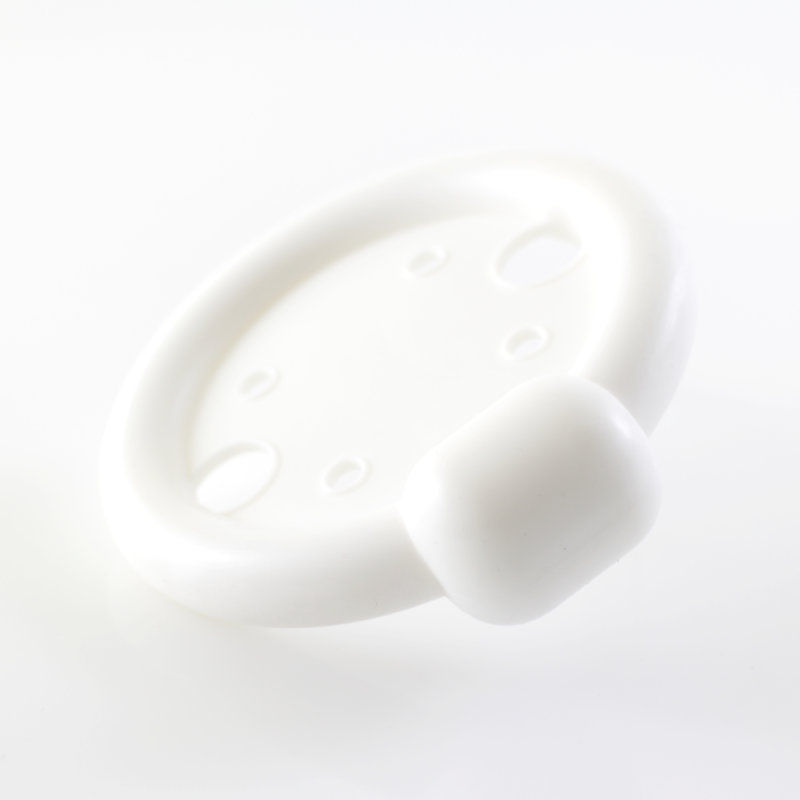
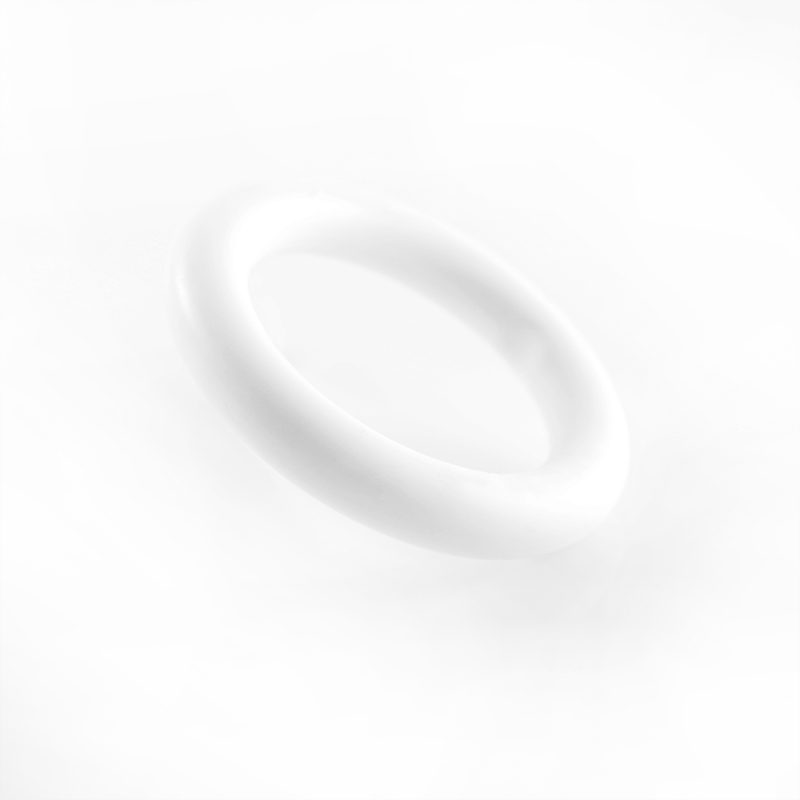
fix: corregir imagen Ring 6 y nombre Gellhorn Short 5

diff --git a/index.html b/index.html
@@ -126,8 +126,8 @@ body{font-family:'Inter',-apple-system,BlinkMacSystemFont,'Segoe UI',sans-serif;
     <div class="gift" data-n="Balanza Monitor Grasa"><div class="pic"><img src="https://conexioncentral-alt.github.io/dolphin-medical-reconocimiento/images/Balanza-Monitor-Grasa-Latidos.jpg" alt="Balanza con Monitor de Grasa" loading="lazy"></div><div class="info"><h3>Balanza con Monitor de Grasa</h3><p>Tecnolog&iacute;a de bioimpedancia para su consultorio.</p><div class="sel"><input type="radio" name="g" id="a2" value="Balanza Monitor Grasa"><label for="a2">Seleccionar</label></div></div></div>
     <div class="gift" data-n="Linterna GMD LED"><div class="pic"><img src="https://conexioncentral-alt.github.io/dolphin-medical-reconocimiento/images/Linterna-Contacto-LED-GMD.jpg" alt="Linterna de Contacto GMD" loading="lazy"></div><div class="info"><h3>Linterna de Contacto GMD</h3><p>Iluminaci&oacute;n cl&iacute;nica de alta fidelidad crom&aacute;tica.</p><div class="sel"><input type="radio" name="g" id="a3" value="Linterna GMD LED"><label for="a3">Seleccionar</label></div></div></div>
     <div class="gift" data-n="Pulsioximetro GMDX-201D"><div class="pic"><img src="https://conexioncentral-alt.github.io/dolphin-medical-reconocimiento/images/Pulsioximetro-Curva-Latidos-Pro.jpg" alt="Pulsioxímetro GMDX-201D" loading="lazy"></div><div class="info"><h3>Pulsiox&iacute;metro GMDX-201D</h3><p>Monitoreo de saturaci&oacute;n con curva de latidos.</p><div class="sel"><input type="radio" name="g" id="a4" value="Pulsioximetro GMDX-201D"><label for="a4">Seleccionar</label></div></div></div>
-    <div class="gift" data-n="Pesario Gellhorn #5"><div class="pic"><img src="https://conexioncentral-alt.github.io/dolphin-medical-reconocimiento/images/Pesario-Gellhorn-Vastago-Corto-5.jpg" alt="Pesario Gellhorn #5" loading="lazy"></div><div class="info"><h3>Pesario Gellhorn #5</h3><p>Soporte p&eacute;lvico reforzado con v&aacute;stago corto.</p><div class="sel"><input type="radio" name="g" id="a5" value="Pesario Gellhorn #5"><label for="a5">Seleccionar</label></div></div></div>
-    <div class="gift" data-n="Pesario Ring #6"><div class="pic"><img src="https://conexioncentral-alt.github.io/dolphin-medical-reconocimiento/images/Pesario-Ring-6.jpg" alt="Pesario Ring #6" loading="lazy"></div><div class="info"><h3>Pesario Ring #6</h3><p>El est&aacute;ndar de referencia en soporte p&eacute;lvico.</p><div class="sel"><input type="radio" name="g" id="a6" value="Pesario Ring #6"><label for="a6">Seleccionar</label></div></div></div>
+    <div class="gift" data-n="Pesario Gellhorn Short #5"><div class="pic"><img src="https://conexioncentral-alt.github.io/dolphin-medical-reconocimiento/images/Pesario-Gellhorn-Vastago-Corto-5.jpg" alt="Pesario Gellhorn Short #5" loading="lazy"></div><div class="info"><h3>Pesario Gellhorn Short #5</h3><p>Soporte p&eacute;lvico reforzado con v&aacute;stago corto.</p><div class="sel"><input type="radio" name="g" id="a5" value="Pesario Gellhorn Short #5"><label for="a5">Seleccionar</label></div></div></div>
+    <div class="gift" data-n="Pesario Ring #6"><div class="pic"><img src="https://conexioncentral-alt.github.io/dolphin-medical-reconocimiento/images/Pesario-Ring-6.jpg?v=ring-corrected-20260630" alt="Pesario Ring #6" loading="lazy"></div><div class="info"><h3>Pesario Ring #6</h3><p>El est&aacute;ndar de referencia en soporte p&eacute;lvico.</p><div class="sel"><input type="radio" name="g" id="a6" value="Pesario Ring #6"><label for="a6">Seleccionar</label></div></div></div>
   </div>
 </div>
 <section class="form-section" id="formulario">

diff --git a/wordpress-gutenberg-block.html b/wordpress-gutenberg-block.html
@@ -123,8 +123,8 @@ body{font-family:'Inter',-apple-system,BlinkMacSystemFont,'Segoe UI',sans-serif;
     <div class="gift" data-n="Balanza Monitor Grasa"><div class="pic"><img src="https://conexioncentral-alt.github.io/dolphin-medical-reconocimiento/images/Balanza-Monitor-Grasa-Latidos.jpg" alt="Balanza con Monitor de Grasa" loading="lazy"></div><div class="info"><h3>Balanza con Monitor de Grasa</h3><p>Tecnolog&iacute;a de bioimpedancia para su consultorio.</p><div class="sel"><input type="radio" name="g" id="a2" value="Balanza Monitor Grasa"><label for="a2">Seleccionar</label></div></div></div>
     <div class="gift" data-n="Linterna GMD LED"><div class="pic"><img src="https://conexioncentral-alt.github.io/dolphin-medical-reconocimiento/images/Linterna-Contacto-LED-GMD.jpg" alt="Linterna de Contacto GMD" loading="lazy"></div><div class="info"><h3>Linterna de Contacto GMD</h3><p>Iluminaci&oacute;n cl&iacute;nica de alta fidelidad crom&aacute;tica.</p><div class="sel"><input type="radio" name="g" id="a3" value="Linterna GMD LED"><label for="a3">Seleccionar</label></div></div></div>
     <div class="gift" data-n="Pulsioximetro GMDX-201D"><div class="pic"><img src="https://conexioncentral-alt.github.io/dolphin-medical-reconocimiento/images/Pulsioximetro-Curva-Latidos-Pro.jpg" alt="Pulsioxímetro GMDX-201D" loading="lazy"></div><div class="info"><h3>Pulsiox&iacute;metro GMDX-201D</h3><p>Monitoreo de saturaci&oacute;n con curva de latidos.</p><div class="sel"><input type="radio" name="g" id="a4" value="Pulsioximetro GMDX-201D"><label for="a4">Seleccionar</label></div></div></div>
-    <div class="gift" data-n="Pesario Gellhorn #5"><div class="pic"><img src="https://conexioncentral-alt.github.io/dolphin-medical-reconocimiento/images/Pesario-Gellhorn-Vastago-Corto-5.jpg" alt="Pesario Gellhorn #5" loading="lazy"></div><div class="info"><h3>Pesario Gellhorn #5</h3><p>Soporte p&eacute;lvico reforzado con v&aacute;stago corto.</p><div class="sel"><input type="radio" name="g" id="a5" value="Pesario Gellhorn #5"><label for="a5">Seleccionar</label></div></div></div>
-    <div class="gift" data-n="Pesario Ring #6"><div class="pic"><img src="https://conexioncentral-alt.github.io/dolphin-medical-reconocimiento/images/Pesario-Ring-6.jpg" alt="Pesario Ring #6" loading="lazy"></div><div class="info"><h3>Pesario Ring #6</h3><p>El est&aacute;ndar de referencia en soporte p&eacute;lvico.</p><div class="sel"><input type="radio" name="g" id="a6" value="Pesario Ring #6"><label for="a6">Seleccionar</label></div></div></div>
+    <div class="gift" data-n="Pesario Gellhorn Short #5"><div class="pic"><img src="https://conexioncentral-alt.github.io/dolphin-medical-reconocimiento/images/Pesario-Gellhorn-Vastago-Corto-5.jpg" alt="Pesario Gellhorn Short #5" loading="lazy"></div><div class="info"><h3>Pesario Gellhorn Short #5</h3><p>Soporte p&eacute;lvico reforzado con v&aacute;stago corto.</p><div class="sel"><input type="radio" name="g" id="a5" value="Pesario Gellhorn Short #5"><label for="a5">Seleccionar</label></div></div></div>
+    <div class="gift" data-n="Pesario Ring #6"><div class="pic"><img src="https://conexioncentral-alt.github.io/dolphin-medical-reconocimiento/images/Pesario-Ring-6.jpg?v=ring-corrected-20260630" alt="Pesario Ring #6" loading="lazy"></div><div class="info"><h3>Pesario Ring #6</h3><p>El est&aacute;ndar de referencia en soporte p&eacute;lvico.</p><div class="sel"><input type="radio" name="g" id="a6" value="Pesario Ring #6"><label for="a6">Seleccionar</label></div></div></div>
   </div>
 </div>
 <section class="form-section" id="formulario">